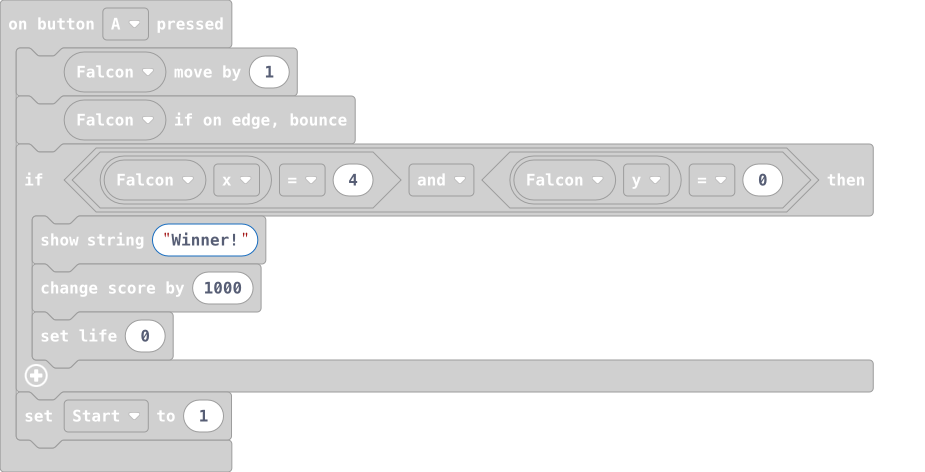
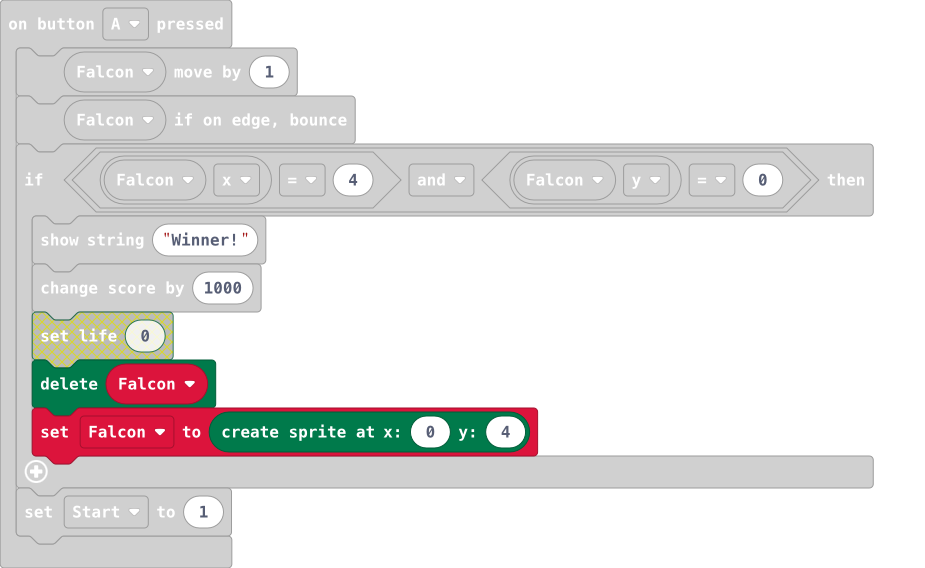
Update main.blocks, main.ts

Changed region(s): [[0.0, 0.0, 0.9686, 0.9492], [0.0303, 0.9492, 0.0605, 0.9788], [0.0, 0.9195, 0.0303, 0.9492]]

diff --git a/main.ts b/main.ts
@@ -4,7 +4,8 @@ input.onButtonPressed(Button.A, function () {
     if (Falcon.get(LedSpriteProperty.X) == 4 && Falcon.get(LedSpriteProperty.Y) == 0) {
         basic.showString("Winner!")
         game.addScore(1000)
-        game.setLife(0)
+        Falcon.delete()
+        Falcon = game.createSprite(0, 4)
     }
     Start = 1
 })
